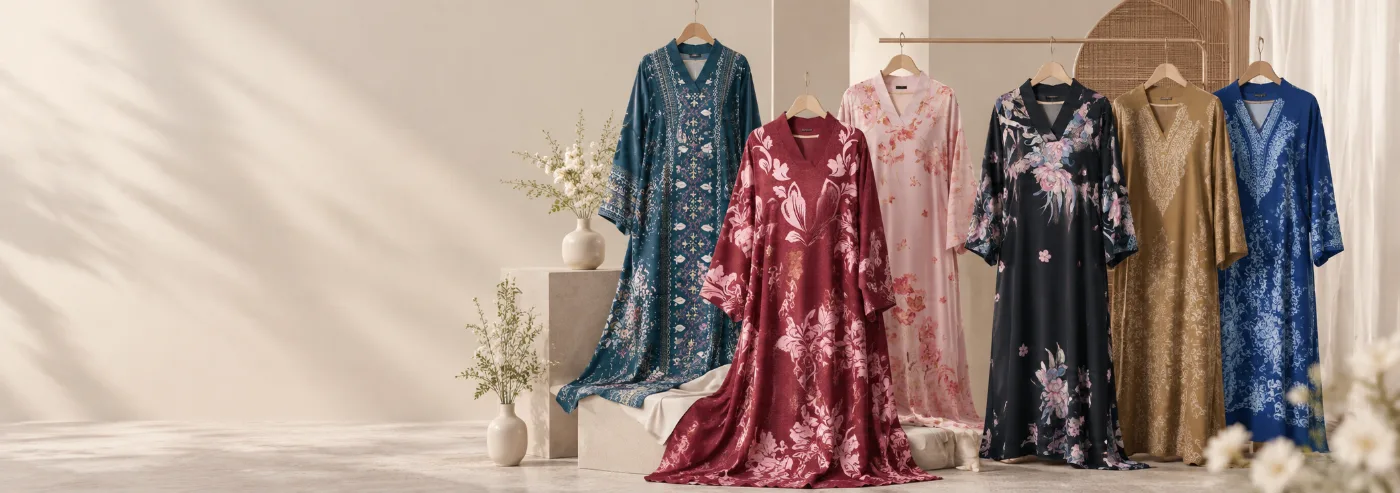
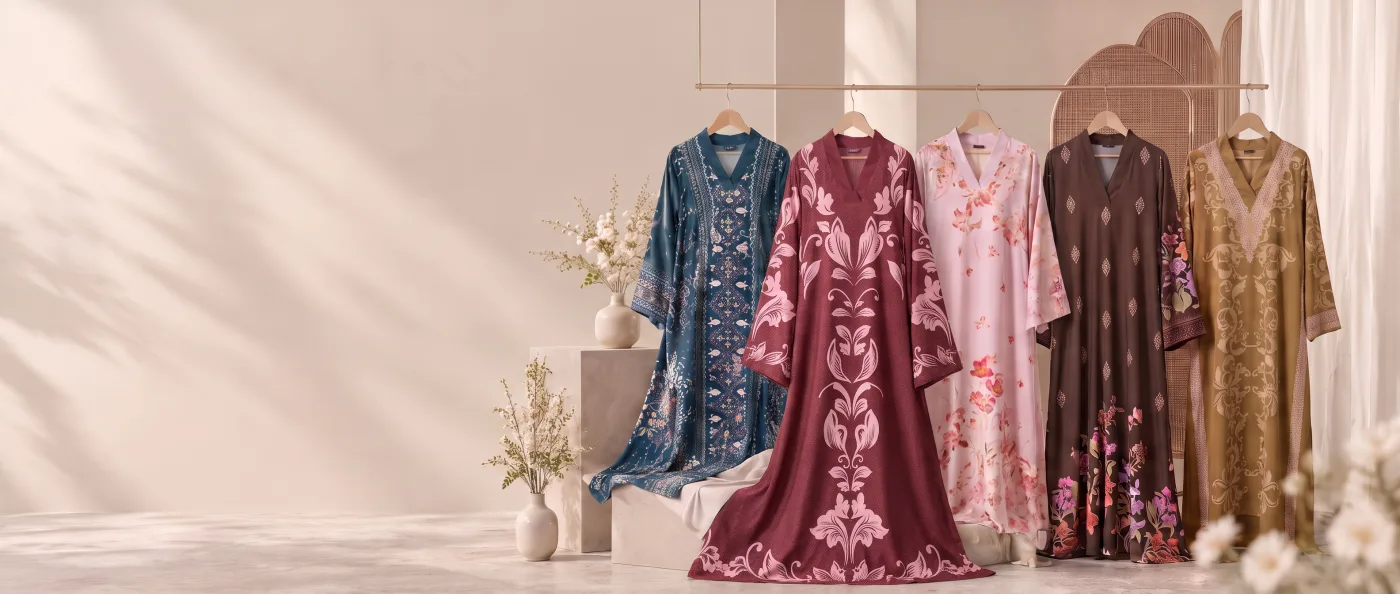
Client feedback, closer image: corrected masters, mobile deck moves up onto the wall
Desktop renders (900/1400/2112) from raya-cta-desktop.png at 2.36:1; mobile
renders (480/1024) from raya-cta-mobile.png. Placeholders, intrinsic sizes
and the min-height ratios follow the new masters.

The mobile master keeps its empty wall at the top and the rail of dresses
below, so the deck now sits at the top in ink like desktop, and the bottom
scrim with its paper-on-dark overrides is gone.

Claude-Session: https://claude.ai/code/session_01Qh1GGYyHPos9ZuknwKTAwd

diff --git a/app/hoor.css b/app/hoor.css
@@ -1125,30 +1125,16 @@ ul, ol { margin: 0; padding: 0; list-style: none; }
 .closer__cta { display: flex; flex-wrap: wrap; align-items: center; gap: 1rem 1.5rem; }
 
 @media (max-width: 899px) {
-  .closer { min-height: calc(100vw * 1536 / 1024); align-items: end; }
-  .closer::after {
-    content: '';
-    position: absolute; left: 0; right: 0; bottom: 0;
-    height: 62%;
-    background: linear-gradient(to top, rgba(21, 18, 15, .68) 0%, rgba(21, 18, 15, .34) 55%, transparent 100%);
-    pointer-events: none;
-  }
+  /* The mobile master keeps its empty wall at the top and the rail of dresses
+     below, so the deck sits up on the wall in ink, as on desktop. No scrim. */
+  .closer { min-height: calc(100vw * 2276 / 1024); align-items: start; padding-top: clamp(2.5rem, 8vw, 3.5rem); }
   .closer__inner { z-index: 1; }
-  .closer .label { color: var(--cream); }
-  .closer h2 { color: var(--paper); }
-  .closer p { color: rgba(250, 246, 241, .88); }
-  /* over the scrim: solid becomes paper, hairline becomes the hero treatment */
-  .closer .btn--solid { background: var(--paper); color: var(--ink); border-color: var(--paper); }
-  .closer .btn--solid::before { background: var(--cream); }
-  .closer .btn--solid:hover:not(:disabled) { color: var(--ink); }
-  .closer .btn:not(.btn--solid) { color: var(--paper); border-color: rgba(250, 246, 241, .65); background: rgba(23, 20, 17, .16); }
-  .closer .btn:not(.btn--solid)::before { background: var(--paper); }
-  .closer .btn:not(.btn--solid):hover:not(:disabled) { color: var(--ink); }
+  .closer h2 { max-width: 12ch; }
 }
 
 @media (min-width: 900px) {
-  .closer { min-height: calc(100vw * 744 / 2112); }
-  /* frames narrower than 2.84:1 crop from the right, keeping the text wall */
+  .closer { min-height: calc(100vw * 896 / 2112); }
+  /* frames narrower than 2.36:1 crop from the right, keeping the text wall */
   .closer__media img { object-position: 24% 50%; }
   /* everything lives on the artwork's empty left wall */
   .closer__inner { justify-items: start; gap: 2rem; }

diff --git a/components/hoor/tail.tsx b/components/hoor/tail.tsx
@@ -51,7 +51,7 @@ export function Closer() {
           <picture>
             <source media="(max-width: 899px)" sizes="100vw" srcSet="/assets/img/closer_mobile-480.webp 480w, /assets/img/closer_mobile-1024.webp 1024w" />
             {/* eslint-disable-next-line @next/next/no-img-element */}
-            <img className="loaded" src="/assets/img/closer_desktop-1400.webp" sizes="100vw" srcSet="/assets/img/closer_desktop-900.webp 900w, /assets/img/closer_desktop-1400.webp 1400w, /assets/img/closer_desktop-2112.webp 2112w" alt="" width={2112} height={744} loading="lazy" decoding="async" />
+            <img className="loaded" src="/assets/img/closer_desktop-1400.webp" sizes="100vw" srcSet="/assets/img/closer_desktop-900.webp 900w, /assets/img/closer_desktop-1400.webp 1400w, /assets/img/closer_desktop-2112.webp 2112w" alt="" width={2112} height={896} loading="lazy" decoding="async" />
           </picture>
         </div>
       </div>

diff --git a/FEEDBACK.md b/FEEDBACK.md
@@ -79,7 +79,7 @@ Tick as done. Items marked ⚠ need something from the client before they can be
 
 ## Closer
 
-- [ ] **17. Closer image: prints do not match the real dresses** ⚠
-  "Check corak ada yang lari tak sama dengan corak sebenar baju." Same issue as item 1, on the closing banner. Needs a corrected image from the client.
+- [x] **17. Closer image: prints do not match the real dresses**
+  "Check corak ada yang lari tak sama dengan corak sebenar baju." Replaced with the corrected masters: `raya-cta-desktop.png` (desktop) and `raya-cta-mobile.png` (mobile).
 - [x] **18. Closer copy: remove "Seventeen colours"** — `components/hoor/tail.tsx`
   "Seventeen colours, sizes S/M to 4XL, RM199 each. Free delivery over RM250." → drop the colour count.
